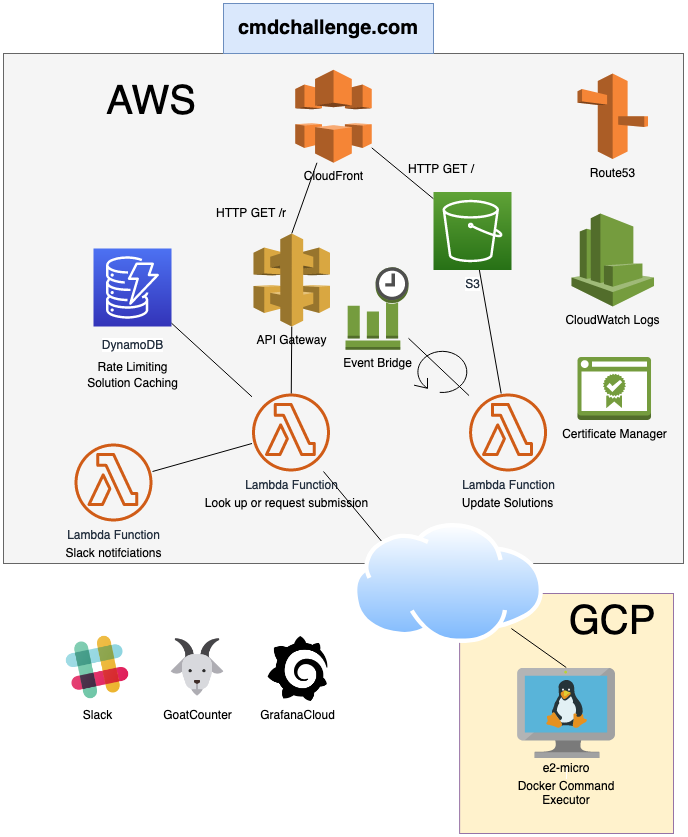
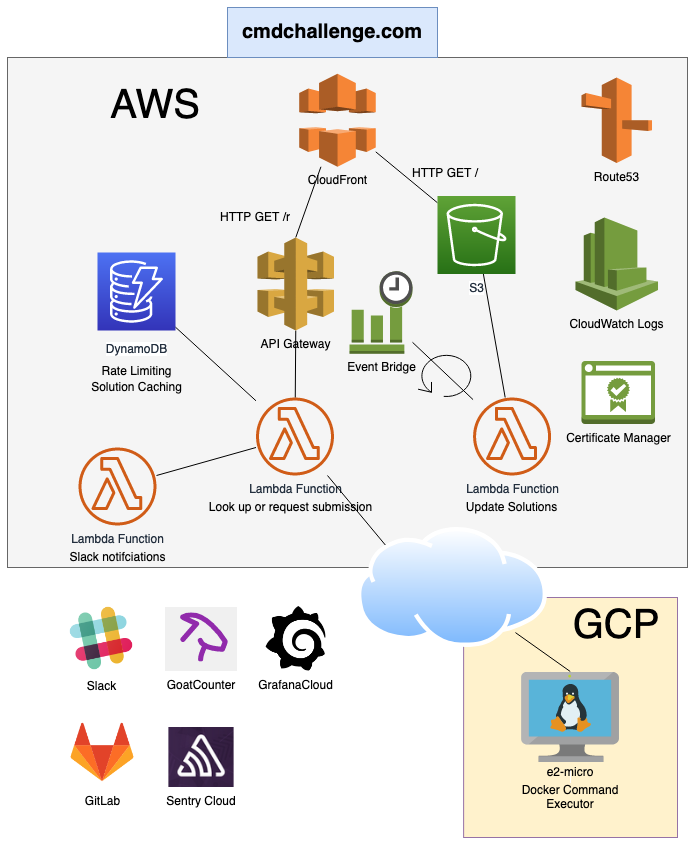
Updates free services

diff --git a/content/posts/does-serverless-make-sense.md b/content/posts/does-serverless-make-sense.md
@@ -21,11 +21,13 @@ Where we could probably move all of this to a single VM and reduce some of the c
 As you can see in the diagram, this project isn't completely "serverless" because a server is required for executing user-submitted commands in Docker.
 For this, it's a matter of finding the cheapest VM available for this type of workload.
 
-## Cloud Services - Free
+## Free Cloud Services
 
 - **[GoatCounter](https://www.goatcounter.com)**: An analytics service [that respects your privacy](https://www.goatcounter.com/why#what-are-goatcounters-goals).
 - **Slack**: Used to receive notifications for unique submissions and errors, useful to keep an eye on what is going on.
 - **Grafana Cloud**: Grafana offers a [free starter plan](https://grafana.com/signup/starter/connect-account). This connects to Prometheus which is running on the GCP VM for monitoring Docker and node level metrics.
+- **Sentry**: [Sentry.io](https://sentry.io) is very nice for side-projects, offering a free tier that I found indispensable for tracking down front-end JS errors in different browser configurations.
+- **GitLab**: [GitLab.com](https://gitlab.com) drives the CI pipeline, every new commit on master updates [the testing environment](https://testing.cmdchallenge.com), with a manual promotion to prod.
 
 ## AWS - $2/month
 
